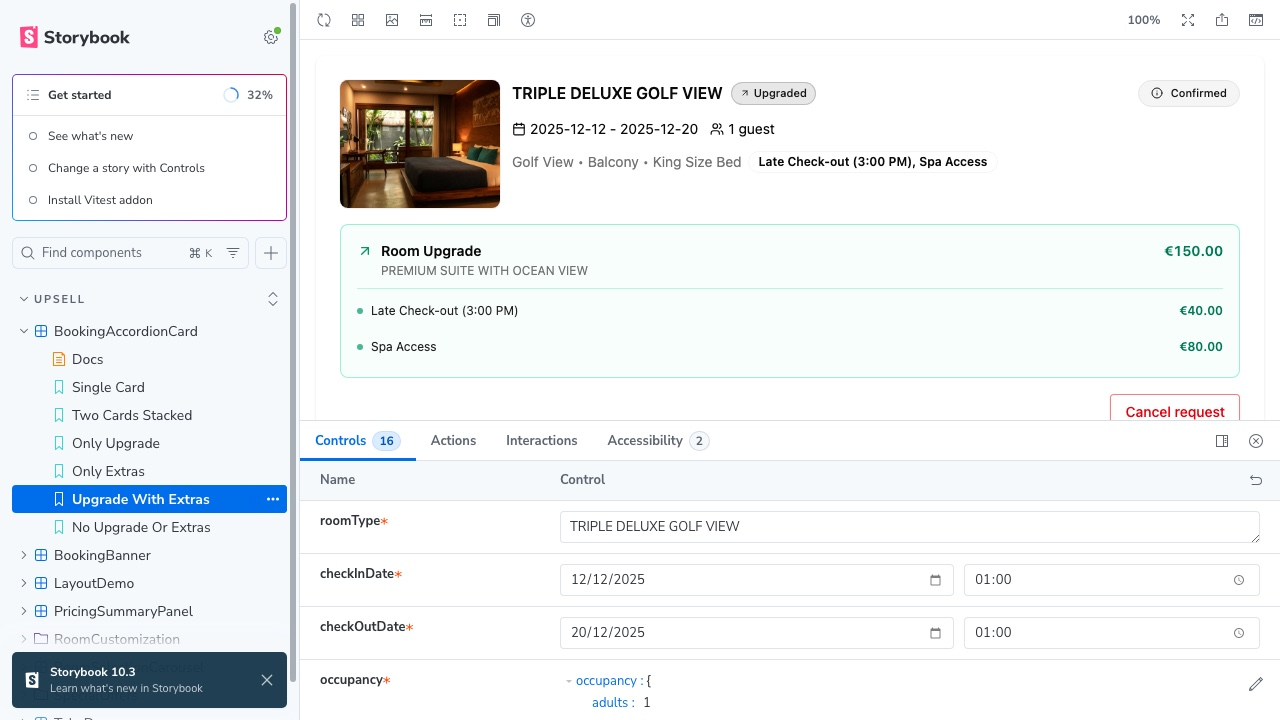
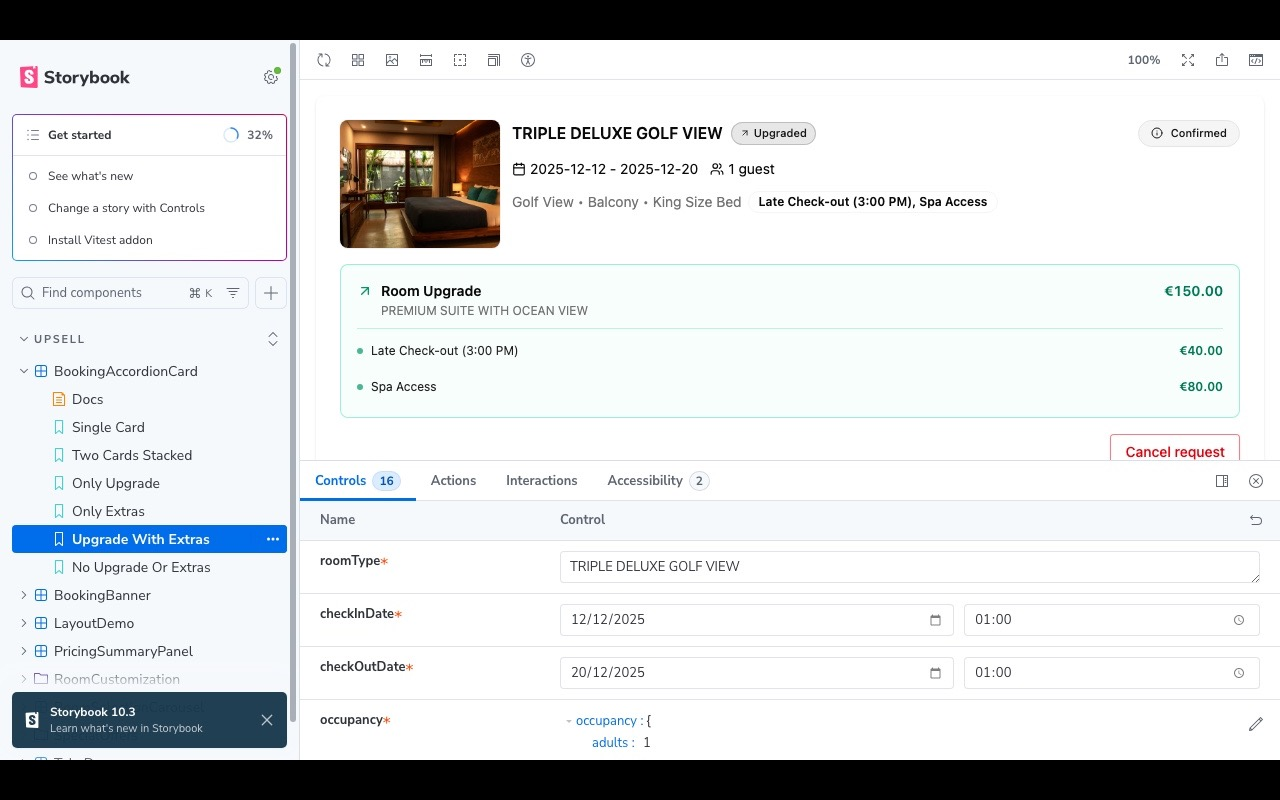
perf: web vitals audit + image optimization + render-blocking fix
Performance audit (Lighthouse 13.1, mobile):
- Home: 95 → 97 (LCP 2.6s → 2.3s, TBT 0ms → 30ms, CLS 0)
- Case Study: 96

Changes:
- Convert all project images to WebP with responsive srcset (320w/640w/1280w)
- Fix topproperties.jpg: was 3.6MB PNG mislabeled as JPEG → 232KB JPEG + 100KB WebP
- Crop all images to 16:10 (1280×800) for consistent thumbnails
- Total image payload: ~4.5MB → ~270KB (94% reduction)
- Remove Google Fonts link tags from index.html (fonts already self-hosted via @fontsource)
- Pause cursor rAF loop when tab is hidden (visibilitychange)
- Add picture/source elements with WebP fallback for CaseStudyListItem + CaseStudy hero

diff --git a/src/components/case-study/CaseStudyListItem.vue b/src/components/case-study/CaseStudyListItem.vue
@@ -63,14 +63,21 @@
         class="overflow-hidden rounded-[1.5rem] border border-cobalt-500/15 bg-cobalt-500/[0.04] md:self-start"
         :class="reverse ? 'md:order-2' : 'md:order-3'"
       >
-        <img
-          :src="image"
-          :alt="`${title} preview`"
-          loading="lazy"
-          width="640"
-          height="440"
-          class="aspect-[16/10] h-auto max-h-[18rem] w-full object-cover object-top transition-transform duration-500 group-hover:scale-[1.04] md:max-h-[16rem]"
-        />
+        <picture>
+          <source
+            type="image/webp"
+            :srcset="`${webpBase}-320.webp 320w, ${webpBase}-640.webp 640w, ${webpBase}.webp 1280w`"
+            sizes="(max-width: 640px) 320px, (max-width: 1024px) 640px, 1280px"
+          />
+          <img
+            :src="image"
+            :alt="`${title} preview`"
+            loading="lazy"
+            width="640"
+            height="400"
+            class="aspect-[16/10] h-auto max-h-[18rem] w-full object-cover object-top transition-transform duration-500 group-hover:scale-[1.04] md:max-h-[16rem]"
+          />
+        </picture>
       </div>
     </router-link>
   </article>
@@ -100,4 +107,10 @@ const props = withDefaults(
 );
 
 const formattedNumber = computed(() => props.number.toString().padStart(2, "0"));
+
+const webpBase = computed(() => {
+  // e.g. "/project-images/topproperties" → strip extension from image path
+  if (!props.image) return "";
+  return props.image.replace(/\.[^.]+$/, "");
+});
 </script>

diff --git a/src/pages/CaseStudy.vue b/src/pages/CaseStudy.vue
@@ -142,13 +142,18 @@
           <div
             class="overflow-hidden border border-cobalt-500/15 bg-white dark:border-cobalt-300/15 dark:bg-charcoal-50"
           >
-            <img
-              :src="caseStudy.image || `/project-images/${caseStudy.slug}.jpg`"
-              :alt="`${project.title} screenshot`"
-              class="h-auto max-h-[70vh] w-full object-cover object-top"
-              loading="eager"
-              @error="handleImageError"
-            />
+            <picture>
+              <source type="image/webp" :srcset="heroWebpSrc" />
+              <img
+                :src="heroImgSrc"
+                :alt="`${project.title} screenshot`"
+                class="h-auto max-h-[70vh] w-full object-cover object-top"
+                loading="eager"
+                width="1280"
+                height="800"
+                @error="handleImageError"
+              />
+            </picture>
           </div>
         </div>
       </section>
@@ -312,6 +317,9 @@ const formattedNumber = computed(() => {
   const index = getProjectIndex(props.slug);
   return (index + 1).toString().padStart(2, "0");
 });
+
+const heroImgSrc = computed(() => caseStudy.value?.image || `/project-images/${props.slug}.jpg`);
+const heroWebpSrc = computed(() => heroImgSrc.value.replace(/\.[^.]+$/, ".webp"));
 
 const heroOutcomes = computed(() => caseStudy.value?.outcomes.slice(0, 3) ?? []);
 const projectHighlights = computed(() => project.value?.highlights.slice(0, 4) ?? []);

diff --git a/src/composables/useMousePosition.ts b/src/composables/useMousePosition.ts
@@ -9,6 +9,7 @@ const smoothY = ref(0);
 let refCount = 0;
 let rafId: number | null = null;
 const LERP = 0.15;
+let isVisible = true;
 
 function onMouseMove(e: MouseEvent) {
   x.value = e.clientX;
@@ -16,6 +17,7 @@ function onMouseMove(e: MouseEvent) {
 }
 
 function tick() {
+  if (!isVisible) return;
   smoothX.value += (x.value - smoothX.value) * LERP;
   smoothY.value += (y.value - smoothY.value) * LERP;
   rafId = requestAnimationFrame(tick);
@@ -23,14 +25,24 @@ function tick() {
 
 function start() {
   document.addEventListener("mousemove", onMouseMove, { passive: true });
+  document.addEventListener("visibilitychange", onVisibilityChange);
   rafId = requestAnimationFrame(tick);
 }
 
 function stop() {
   document.removeEventListener("mousemove", onMouseMove);
+  document.removeEventListener("visibilitychange", onVisibilityChange);
   if (rafId !== null) {
     cancelAnimationFrame(rafId);
     rafId = null;
+  }
+}
+
+function onVisibilityChange() {
+  isVisible = !document.hidden;
+  if (isVisible && refCount > 0) {
+    // Restart the rAF loop
+    if (rafId === null) rafId = requestAnimationFrame(tick);
   }
 }
 

diff --git a/index.html b/index.html
@@ -8,12 +8,6 @@
       name="description"
       content="Vlad Caraseli is a frontend engineer building polished product interfaces, design systems, and high-trust web experiences with Vue, React, TypeScript, and Nuxt."
     />
-    <link rel="preconnect" href="https://fonts.googleapis.com" />
-    <link rel="preconnect" href="https://fonts.gstatic.com" crossorigin />
-    <link
-      href="https://fonts.googleapis.com/css2?family=Figtree:wght@400;500;600;700;800&family=Young+Serif&display=swap"
-      rel="stylesheet"
-    />
     <title>Vlad Caraseli | Frontend Engineer for Product Teams</title>
   </head>
   <body>

diff --git a/PERFORMANCE_AUDIT.md b/PERFORMANCE_AUDIT.md
@@ -1,0 +1,132 @@
+# Web Vitals & Performance Audit
+
+**Branch:** `feat/web-vitals-audit`
+**Date:** 2026-04-22
+**Tool:** Lighthouse 13.1 (mobile simulation)
+
+---
+
+## Lighthouse Scores
+
+| Page                                   | Score  | LCP  | FCP  | CLS | TBT  | SI   |
+| -------------------------------------- | ------ | ---- | ---- | --- | ---- | ---- |
+| `/` (Home)                             | **95** | 2.6s | 2.0s | 0   | 0ms  | 2.0s |
+| `/projects/topproperties` (Case Study) | **96** | 2.4s | 1.9s | 0   | 60ms | 1.9s |
+
+Both pages score green across all Core Web Vitals. CLS is perfect (0).
+
+---
+
+## Issues Found (Prioritized)
+
+### P0 — Images (biggest win: ~3.5 MB savings)
+
+**`topproperties.jpg` is 3.6 MB PNG-in-JPEG clothing (1280×4107!)**
+
+- `public/project-images/topproperties.jpg` → actual PNG data at 1280×4107px
+- Served for a 320×200 display → **95% wasted bytes**
+- `ecas.jpg` (620 KB, 1280×2525) → also massively oversized for thumbnails
+- `abs-storybook.jpg` (170 KB, 1280×720) → mild oversize
+- None are WebP/AVIF
+- Lighthouse est. savings: **4.1 MB** on home page alone
+
+**Fix:**
+
+1. Re-export all project images as proper JPEG/WebP at actual display sizes
+2. For topproperties: the image is 4107px tall but displayed at ~200px — needs a proper crop
+3. Generate responsive `srcset` with 320w, 640w, 1280w variants
+4. Case study hero can keep 1280px wide, but should be WebP
+
+### P1 — Render-Blocking Resources (~900ms wasted)
+
+**Font CSS from Google Fonts blocks render for ~864ms**
+
+The app imports fonts via `@fontsource` npm packages (good!), but Lighthouse detected a Google Fonts CSS call. This might be from a browser extension or stale reference — needs verification. The main CSS bundle (15 KB) blocks for ~454ms.
+
+**Fix:**
+
+1. Verify no Google Fonts `<link>` tags exist (check `index.html`)
+2. Font files are self-hosted via `@fontsource` ✓ — just need to confirm no external calls leak
+3. Consider `font-display: swap` (already likely set by `@fontsource`)
+
+### P2 — Font Bundle Size (68 KB fonts)
+
+| Font                         | Size (woff2)                |
+| ---------------------------- | --------------------------- |
+| JetBrains Mono Variable      | 40.4 KB                     |
+| Young Serif                  | 27.0 KB                     |
+| Figtree (5 weights + italic) | ~55 KB total (woff + woff2) |
+
+JetBrains Mono is the heaviest. Consider:
+
+- Subsetting to only Latin characters
+- Using `unicode-range` to lazy-load
+- The variable font is efficient, but 40 KB for a mono font used for small labels is heavy
+
+### P3 — JS Bundle
+
+| Chunk                     | Size (gzip) |
+| ------------------------- | ----------- |
+| `index.js` (Vue + router) | 26.8 KB     |
+| `runtime-core`            | 24.3 KB     |
+| `CaseStudy.js`            | 6.2 KB      |
+| `Home.js`                 | 3.3 KB      |
+
+**Total JS: ~68 KB gzipped** — this is excellent. Routes are lazy-loaded ✓.
+
+### P4 — Runtime Performance Notes
+
+**CustomCursor runs a continuous `requestAnimationFrame` loop**
+
+- `useMousePosition` starts a rAF tick loop that never stops (even when cursor is disabled)
+- The rAF runs 60fps even on pages where no cursor element exists
+- With ref-counting, it only stops when all consumers unmount
+- **Fix:** Pause rAF when tab is hidden (`visibilitychange`), and consider only running when cursor is actually enabled
+
+**Marquee uses CSS animation** ✓ — no JS overhead, good
+
+**Scroll listeners use rAF throttling** ✓ — `useScrollProgress` and `useScrollReveal` both use `requestAnimationFrame` for throttling
+
+**IntersectionObserver cleanup** ✓ — `useScrollReveal` disconnects on unmount
+
+**Media query listeners** — `useDeviceDetection` has proper cleanup ✓ (TODO 003 resolved)
+
+**Scroll listener** — `useScrollProgress` cleans up ✓
+
+### P5 — bfcache Failure
+
+Lighthouse reports bfcache restoration fails ("Internal error — IgnoreEventAndEvict"). This is common with:
+
+- `mousemove`/`mouseover` global listeners (from custom cursor)
+- `beforeunload` or similar handlers
+
+The custom cursor registers `document.addEventListener("mousemove")` and `document.addEventListener("mouseover")` — these may interfere with bfcache.
+
+**Fix:** Consider removing listeners on `visibilitychange` and re-adding on focus.
+
+---
+
+## What's Already Good ✓
+
+- **Lazy-loaded routes** — all pages use `() => import()`
+- **Code splitting** — Vite splits per-route automatically
+- **`loading="lazy"`** on list images
+- **Passive scroll listeners** — `{ passive: true }` everywhere
+- **`will-change: transform`** on cursor elements (GPU composited)
+- **No CLS** — images have explicit dimensions and `aspect-ratio`
+- **IntersectionObserver with `once`** — unobserves after reveal
+- **Module-level refs** — shared composables use singleton refs (no duplication)
+- **Build time** — 416ms, excellent
+
+---
+
+## Action Plan
+
+| #   | Priority | Task                                                   | Impact              |
+| --- | -------- | ------------------------------------------------------ | ------------------- |
+| 1   | P0       | Convert project images to WebP at proper sizes         | -3.5 MB payload     |
+| 2   | P0       | Fix topproperties.jpg (not actually JPEG, 4107px tall) | Critical            |
+| 3   | P1       | Verify no Google Fonts leak                            | -864ms render block |
+| 4   | P2       | Subset JetBrains Mono or defer                         | -30 KB              |
+| 5   | P3       | Pause cursor rAF when tab hidden                       | Battery/CPU         |
+| 6   | P4       | Improve bfcache support                                | Faster back-nav     |
